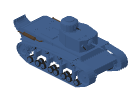
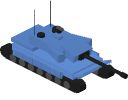
Frontline v4.35/v4.36: Schützenpanzer (Puma) und Kampfpanzer (Leopard 2) als eigene gerenderte 3D-Modelle
Claude-Session: https://claude.ai/code/session_01D6usvGCse3atXHSLSnmZu5

diff --git a/tools/render-models/view.html b/tools/render-models/view.html
@@ -39,9 +39,74 @@ window.buildLB=()=>{
   // Sensorkugel unter der Nase
   add(new THREE.SphereGeometry(0.075,14,10),grey,0,0.17,0.43);
   return g;};
+window.buildPuma=()=>{
+  const team=new THREE.Color(window.TEAM||0x808080);
+  const M=(c,e)=>new THREE.MeshLambertMaterial({color:c,emissive:e||0x000000});
+  const body=M(team,team.clone().multiplyScalar(0.3)),top=M(team.clone().multiplyScalar(0.85),team.clone().multiplyScalar(0.22)),dark=M(0x2a2a2a),grey=M(0x6a6a6a),glass=M(0x25394d,0x0c1620);
+  const g=new THREE.Group();
+  const box=(w,h,d,mat,x,y,z,rx=0,ry=0,rz=0)=>{const m=new THREE.Mesh(new THREE.BoxGeometry(w,h,d),mat);m.position.set(x,y,z);m.rotation.set(rx,ry,rz);g.add(m);return m;};
+  const cyl=(r,l,mat,x,y,z,rx=0,ry=0,rz=0)=>{const m=new THREE.Mesh(new THREE.CylinderGeometry(r,r,l,14),mat);m.position.set(x,y,z);m.rotation.set(rx,ry,rz);g.add(m);return m;};
+  // Wanne, Bug abgeschrägt (Front = +Z), Heckdeck
+  box(0.78,0.22,1.60,body,0,0.30,-0.05);
+  box(0.74,0.06,0.50,body,0,0.37,0.86,-0.42,0,0);
+  box(0.68,0.10,1.05,top,0,0.47,-0.28);
+  // Ketten, Seitenschürzen mit Modulen, Antriebs- und Leitrad
+  for(const sx of [-1,1]){
+    box(0.14,0.20,1.78,dark,sx*0.36,0.13,-0.02);
+    box(0.05,0.28,1.38,body,sx*0.44,0.29,-0.06);
+    box(0.06,0.20,0.30,top,sx*0.45,0.31,0.50);
+    for(const z of [0.86,-0.88]) cyl(0.11,0.14,dark,sx*0.36,0.13,z,0,0,Math.PI/2);
+    for(let i=0;i<5;i++) cyl(0.07,0.15,grey,sx*0.36,0.10,0.55-i*0.30,0,0,Math.PI/2);
+  }
+  // Heckrampe und Front-Scheinwerfer
+  box(0.5,0.18,0.04,dark,0,0.30,-0.86);
+  for(const sx of [-1,1]) box(0.08,0.06,0.05,glass,sx*0.30,0.34,0.98);
+  // Turm (leicht vor der Mitte), Blende, Maschinenkanone rechts, Sensorkopf, Antenne
+  box(0.50,0.17,0.62,top,0,0.66,0.12);
+  box(0.46,0.13,0.20,top,0,0.67,0.46,0.25,0,0);
+  cyl(0.032,0.80,dark,0.12,0.66,0.88,Math.PI/2);
+  cyl(0.045,0.10,dark,0.12,0.66,0.52,Math.PI/2);
+  box(0.12,0.10,0.14,dark,-0.12,0.80,0.10);
+  box(0.07,0.05,0.07,glass,-0.12,0.86,0.10);
+  box(0.12,0.07,0.26,dark,-0.20,0.76,-0.12);
+  cyl(0.008,0.55,dark,-0.34,0.82,-0.78);
+  return g;};
+window.buildLeo=()=>{
+  const team=new THREE.Color(window.TEAM||0x808080);
+  const M=(c,e)=>new THREE.MeshLambertMaterial({color:c,emissive:e||0x000000});
+  const body=M(team,team.clone().multiplyScalar(0.3)),top=M(team.clone().multiplyScalar(0.85),team.clone().multiplyScalar(0.22)),dark=M(0x262626),grey=M(0x5a5a5a),glass=M(0x25394d,0x0c1620);
+  const g=new THREE.Group();
+  const box=(w,h,d,mat,x,y,z,rx=0,ry=0,rz=0)=>{const m=new THREE.Mesh(new THREE.BoxGeometry(w,h,d),mat);m.position.set(x,y,z);m.rotation.set(rx,ry,rz);g.add(m);return m;};
+  const cyl=(r,l,mat,x,y,z,rx=0,ry=0,rz=0,seg=14)=>{const m=new THREE.Mesh(new THREE.CylinderGeometry(r,r,l,seg),mat);m.position.set(x,y,z);m.rotation.set(rx,ry,rz);g.add(m);return m;};
+  // Wanne (Front = +Z) mit schräger Bugplatte und Heckdeck
+  box(0.84,0.20,1.70,body,0,0.30,0);
+  box(0.80,0.05,0.42,body,0,0.37,0.92,-0.45,0,0);
+  box(0.76,0.08,0.60,top,0,0.44,-0.62);
+  // Ketten, Laufrollen, Seitenschürzen (Moduleplatten)
+  for(const sx of [-1,1]){
+    box(0.17,0.22,1.92,dark,sx*0.40,0.14,0);
+    for(let i=0;i<7;i++) cyl(0.085,0.18,grey,sx*0.40,0.12,0.74-i*0.25,0,0,Math.PI/2);
+    for(const z of [1.00,-1.00]) cyl(0.12,0.18,dark,sx*0.40,0.17,z,0,0,Math.PI/2);
+    box(0.05,0.15,1.35,body,sx*0.50,0.30,-0.05);
+    for(let i=0;i<5;i++) box(0.055,0.13,0.24,top,sx*0.52,0.31,0.50-i*0.26);
+  }
+  // Turm: Keilform mit schrägen Seiten, Frontplatten, Blende
+  box(0.62,0.20,0.95,top,0,0.60,-0.02);
+  box(0.50,0.17,0.40,top,0,0.64,0.52,0.28,0,0);
+  box(0.26,0.12,0.22,dark,0,0.60,0.66);
+  for(const sx of [-1,1]) box(0.14,0.17,0.62,top,sx*0.31,0.60,0.22,0,sx*0.32,0);
+  // Rohr mit Mündung, Kommandantenluke mit MG, Ladeschütze, Antennen
+  cyl(0.040,1.15,dark,0,0.60,1.30,Math.PI/2);
+  cyl(0.055,0.12,dark,0,0.60,1.86,Math.PI/2);
+  cyl(0.10,0.07,dark,0.17,0.74,-0.18);
+  box(0.05,0.05,0.16,grey,0.17,0.80,-0.10);
+  cyl(0.08,0.05,dark,-0.18,0.72,-0.28);
+  box(0.12,0.06,0.20,top,0,0.73,0.0);
+  for(const [x,z] of [[0.22,-0.42],[-0.25,-0.40]]) cyl(0.007,0.60,dark,x,0.98,z);
+  return g;};
 window.loadModel=async(kind,url,mtl,tex)=>{
   let obj;
-  if(kind==='proc'){obj=window.buildLB();window.obj=obj;return true;}
+  if(kind==='proc'){obj=url==='puma'?window.buildPuma():url==='leo'?window.buildLeo():window.buildLB();window.obj=obj;return true;}
   if(kind==='fbx') obj=await new FBXLoader().loadAsync(url);
   else { const l=new OBJLoader(); if(mtl){const m=await new MTLLoader().loadAsync(mtl);m.preload();l.setMaterials(m);} obj=await l.loadAsync(url);}
   const team=new THREE.Color(window.TEAM||0x808080);

diff --git a/sw.js b/sw.js
@@ -1,6 +1,6 @@
 // Frontline Service Worker: network-first (immer die neueste Version), Cache nur als Offline-Fallback.
 // Bei Änderungen an Dateien CACHE_VERSION erhöhen, damit Clients die neue Version laden.
-const CACHE_VERSION = 'frontline-v46';
+const CACHE_VERSION = 'frontline-v48';
 const CACHE_PREFIX = 'frontline-';
 const CACHE_NAME = CACHE_VERSION;
 
@@ -236,6 +236,22 @@ const ASSETS = [
   './assets/iso/vehicles/littlebird-red-nw.png',
   './assets/iso/vehicles/littlebird-red-n.png',
   './assets/iso/vehicles/littlebird-red-ne.png',
+  './assets/iso/vehicles/ifv-blue-e.png',
+  './assets/iso/vehicles/ifv-blue-se.png',
+  './assets/iso/vehicles/ifv-blue-s.png',
+  './assets/iso/vehicles/ifv-blue-sw.png',
+  './assets/iso/vehicles/ifv-blue-w.png',
+  './assets/iso/vehicles/ifv-blue-nw.png',
+  './assets/iso/vehicles/ifv-blue-n.png',
+  './assets/iso/vehicles/ifv-blue-ne.png',
+  './assets/iso/vehicles/ifv-red-e.png',
+  './assets/iso/vehicles/ifv-red-se.png',
+  './assets/iso/vehicles/ifv-red-s.png',
+  './assets/iso/vehicles/ifv-red-sw.png',
+  './assets/iso/vehicles/ifv-red-w.png',
+  './assets/iso/vehicles/ifv-red-nw.png',
+  './assets/iso/vehicles/ifv-red-n.png',
+  './assets/iso/vehicles/ifv-red-ne.png',
   './js/render/minimap.js',
   './js/ui/controller.js',
   './js/ui/input.js',

diff --git a/js/render/isosprites.js b/js/render/isosprites.js
@@ -38,9 +38,9 @@ const TREE = load('trees/tree.png');
 // Fahrzeuge: je Modell und Team (0 = Blau, 1 = Rot) acht Bilder nach Bildschirmrichtung
 const SECTORS = ['e', 'se', 's', 'sw', 'w', 'nw', 'n', 'ne']; // 0° = rechts, im Uhrzeigersinn
 const TEAM_COLOR = ['blue', 'red'];
-const UNIT_MODEL = { truck: 'truck', engineer: 'pickup', tank: 'tank', gunship: 'apache', littlebird: 'littlebird' };
+const UNIT_MODEL = { truck: 'truck', engineer: 'pickup', tank: 'tank', gunship: 'apache', littlebird: 'littlebird', ifv: 'ifv' };
 // 3D-Modelle (T-12-Panzer, Attack Chopper), siehe assets/iso/README.md: span = Bildbreite in Einheitenradien, ax/ay = Bodenpunkt im Bild
-const MODEL_VIEW = { tank: { span: 4.2, ax: 64, ay: 64 }, apache: { span: 5, ax: 64, ay: 47 }, littlebird: { span: 5, ax: 64, ay: 55 } };
+const MODEL_VIEW = { tank: { span: 5.8, ax: 64, ay: 61 }, apache: { span: 5, ax: 64, ay: 47 }, littlebird: { span: 5, ax: 64, ay: 55 }, ifv: { span: 5, ax: 64, ay: 89 } };
 const VEHICLES = {};
 for (const model of new Set(Object.values(UNIT_MODEL))) {
   VEHICLES[model] = TEAM_COLOR.map((c) => SECTORS.map((s) => load(`vehicles/${model}-${c}-${s}.png`)));

diff --git a/PRD.md b/PRD.md
@@ -241,7 +241,7 @@ Direktfeuer richtet sich nach Trefferzahlen (volles Ziel); Seite = Winkel zur Fa
 - Nebel des Krieges: Unerkundet schwarz, erkundet abgedunkelt, gegnerische Einheiten nur in Sicht.
 - Platzierungsvorschau grün/rot mit Bauradien aller eigenen FOBs.
 - **Isometrische Ansicht** (Taste V, drehbar in 90°-Schritten mit `,` `.`): Boden schräg, Gebäude, Bäume und Fahrzeuge mit Höhe, Tiefensortierung, Hubschrauber schweben mit Schatten. Stadtgebäude (Häuser aus Kenney „City Kit Commercial“, Hallen und Fabriken aus „City Kit Industrial“; 3D-Modelle, vorgerendert isometrisch, Daten `js/render/isodata.js`), Bäume sowie LKW und Baufahrzeug (Team Blau/Rot, 8 Blickrichtungen) sind Bilder aus freien Kenney-Paketen (CC0, `assets/iso/`, Lizenztexte `assets/LICENSES/`, `js/render/isosprites.js`; `?sprites=0` schaltet auf die gezeichnete Variante). Spielgebäude und Panzer sind gezeichnet und mit Details versehen: Stadthäuser mit zwei Stockwerken, Fenstern, Tür, Balkon und Satteldach; Hallen mit Rolltoren und Fensterband; Fabriken mit großen Fenstern, Toren, Schornstein; FOB als **Zentrale** (Sockelbau mit Fensterband, Eingang mit Vordach, Leitstellenturm, Radar, Antennen, Flagge); Fahrzeughalle als **Panzerwerkstatt** (Tore mit Panzer, Teamband, Dachkran); Landeplatz mit H, Ring, Randfeuer, Windsack. Unter Zoom 0,5 entfallen Fenster und Türen (Leistung). Die Zeichnung ist pro Gebäudeart durch Sprites ersetzbar (`spriteOverrides` in `js/render/isobuild.js`).
-- **Grafik (Iso):** Kampfpanzer, AH-64 und Little Bird erscheinen in der isometrischen Ansicht als gerenderte 3D-Modelle (Panzer: „T-12“, CC0; Hubschrauber: „Attack Chopper“ von Geibu3D, CC BY 4.0, Namensnennung in `assets/LICENSES`), 8 Richtungen, Teamfarbe. Der **Little Bird** ist ein eigener, nach einem Foto nachgebauter Entwurf (`tools/render-models`). Schützenpanzer und Transporthubschrauber bleiben gemalt.
+- **Grafik (Iso):** Kampfpanzer (Leopard-2-Anmutung), Schützenpanzer (Puma-Anmutung), Little Bird und AH-64 erscheinen in der isometrischen Ansicht als gerenderte 3D-Modelle in 8 Richtungen und Teamfarbe. Panzer, Schützenpanzer und Little Bird sind eigene Entwürfe nach Fotos (Quelle und Ablauf: `tools/render-models`); der AH-64 ist „Attack Chopper“ von Geibu3D (CC BY 4.0, Namensnennung in `assets/LICENSES`). Der Transporthubschrauber bleibt gemalt.
 - Hilfe (F1) listet alle Tasten, auch V und Drehen.
 
 ## 9a. Karten und Karteneditor
@@ -306,6 +306,8 @@ Verhalten: Baufahrzeug setzt Baustellen, Schützen bauen Mauern aus getragenem B
 
 ## Änderungsverlauf
 
+- v4.36: **Kampfpanzer** als eigenes 3D-Modell (Leopard-2-Anmutung, ersetzt T-12). Cache v48.
+- v4.35: **Schützenpanzer** als eigenes 3D-Modell (Puma-Anmutung). Cache v47.
 - v4.34: **Little Bird** als gerendertes 3D-Modell (Eigenbau nach Foto). Cache v46.
 - v4.33: **Iso-Grafik:** 3D-Modelle für Kampfpanzer und AH-64 (T-12, Attack Chopper). Cache v45.
 - v4.32: **PRD:** Tabelle aller Waffen mit Schaden je Panzerklasse und Tabelle der KI-Konstanten. Cache v44.

diff --git a/assets/iso/README.md b/assets/iso/README.md
@@ -6,6 +6,8 @@ Eigene Entwürfe lassen sich austauschen: gleiche Dateinamen ersetzen oder die L
 
 Soldaten (units/): Kenney „Blocky Characters“ (Figur) mit Helm, Weste in Teamfarbe und Waffe (Gewehr aus dem „Blaster Kit“, RPG aus einfachen Formen) zusammengesetzt und in 8 Richtungen vorgerendert. Eigene Gebäude (team/): Zentrale aus „City Kit (Industrial)“ mit Teamflagge, Mörser und Flak aus dem „Tower Defense Kit“, Mauer und Tor aus dem „Castle Kit“, je Teamfarbe und Drehung der Ansicht vorgerendert (1 Modelleinheit = 1 Kachel). Drehen: js/render/isodata.js.
 
-Panzer und Kampfhubschrauber (vehicles/tank-*, vehicles/apache-*): 3D-Modelle „T-12 soviet light tank lowpoly“ (CC0, OpenGameArt) und „Attack Chopper“ von Cheese Animal Productions / Geibu3D (**CC BY 4.0**, OpenGameArt; Namensnennung siehe assets/LICENSES/Attack-Chopper-CC-BY-4.0.txt), mit three.js isometrisch (30° Höhe) in 8 Richtungen und Teamfarben gerendert. Je Modell sind alle 16 Bilder gleich zugeschnitten; Größe und Bodenpunkt stehen in `MODEL_VIEW` (js/render/isosprites.js). Neue Modelle: dieselben Dateinamen `<modell>-<blue|red>-<e|se|s|sw|w|nw|n|ne>.png` liefern und in `UNIT_MODEL`/`MODEL_VIEW` eintragen.
+Kampfhubschrauber (vehicles/apache-*): 3D-Modell „Attack Chopper“ von Cheese Animal Productions / Geibu3D (**CC BY 4.0**, OpenGameArt; Namensnennung siehe assets/LICENSES/Attack-Chopper-CC-BY-4.0.txt), mit three.js isometrisch (30° Höhe) in 8 Richtungen und Teamfarben gerendert. Je Modell sind alle 16 Bilder gleich zugeschnitten; Größe und Bodenpunkt stehen in `MODEL_VIEW` (js/render/isosprites.js). Neue Modelle: dieselben Dateinamen `<modell>-<blue|red>-<e|se|s|sw|w|nw|n|ne>.png` liefern und in `UNIT_MODEL`/`MODEL_VIEW` eintragen.
 
 Little Bird (vehicles/littlebird-*): eigenes, aus Grundformen nachgebautes 3D-Modell nach einem Foto des MH-6/AH-6 (`buildLB` in `tools/render-models/view.html`, `prodlb.mjs`), Teamfarben und 8 Richtungen wie oben; keine fremden Modelldaten, keine Lizenzauflagen.
+
+Schützenpanzer (vehicles/ifv-*, nach einem Foto des Puma) und Kampfpanzer (vehicles/tank-*, nach einem Bild eines Leopard 2 A7): eigene, aus Grundformen nachgebaute Modelle (`buildPuma`, `buildLeo` in `tools/render-models/view.html`; `prodpu.mjs`, `prodle.mjs`), 8 Richtungen und Teamfarben, keine fremden Modelldaten, keine Lizenzauflagen. Das frühere T-12-Modell (CC0) ist ersetzt.
